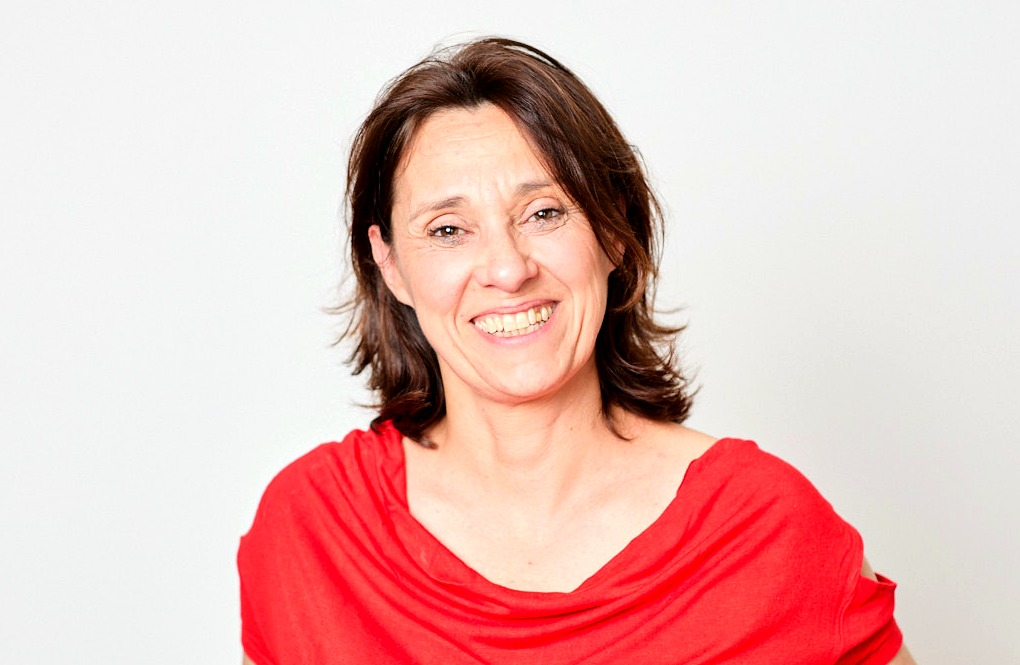
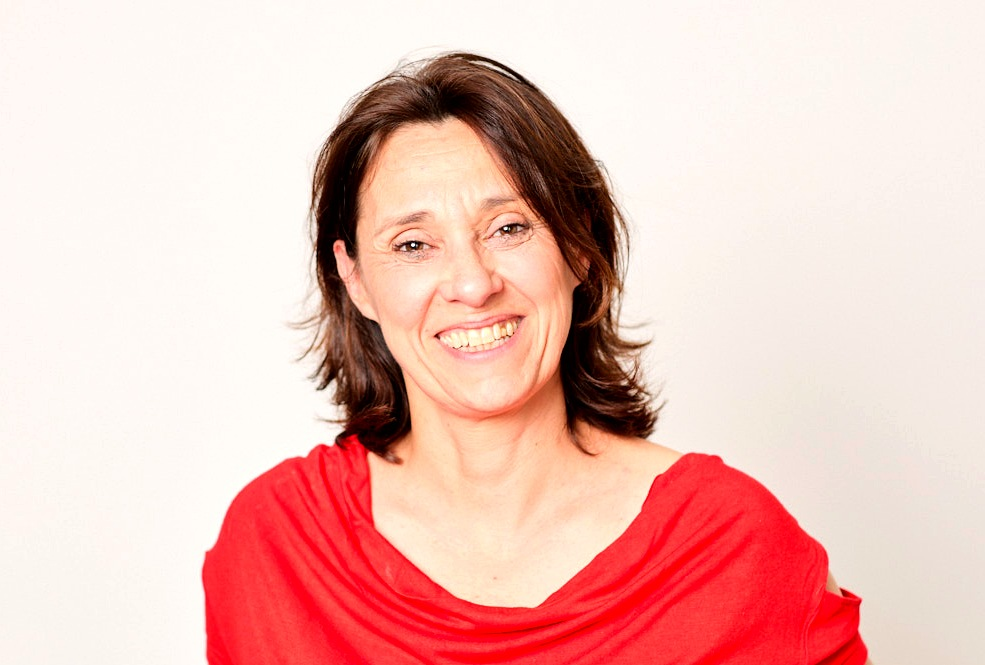
Restaure la légende du portrait dans le hero et retravaille la photo
- Réintègre une légende texte sobre sous la photo du hero
  (« Isabelle Houdaille — Fondatrice de cadreIActif »), supprimée par
  erreur lors du nettoyage précédent — sans réintroduire la forme
  décorative retirée à la demande d'Isabelle.
- Recadre et retravaille les couleurs du portrait (cadrage plus serré,
  légère tonalité chaude cohérente avec l'orange de la charte).

Changed region(s): [[0.1827, 0.0301, 0.9137, 1.0], [0.6396, 0.7218, 0.6701, 0.782], [0.5178, 0.7218, 0.5482, 0.782]]

diff --git a/nouvelle-charte/index.html b/nouvelle-charte/index.html
@@ -113,6 +113,8 @@ nav.site{position:sticky;top:0;z-index:100;display:flex;align-items:center;justi
 .hero-photo-wrap{position:relative;}
 .hero-photo-frame{position:relative;border-radius:20px;overflow:hidden;box-shadow:0 24px 60px rgba(30,30,30,.16);border:6px solid #fff;}
 .hero-photo-frame img{width:100%;display:block;object-fit:cover;}
+.hero-photo-caption{margin-top:16px;font-size:.9rem;color:var(--muted);text-align:center;}
+.hero-photo-caption strong{color:var(--graphite);font-weight:700;}
 @media(max-width:900px){.hero-split{grid-template-columns:1fr;text-align:center;}.hero-inner{text-align:center;}.hero-pills,.hero-ctas{justify-content:center;}.hero-photo-wrap{max-width:360px;margin:32px auto 0;}}
 
 /* 6 ATELIERS (offres) */
@@ -343,6 +345,7 @@ footer.site{background:#FBF1EC;color:var(--cendre);padding:52px 48px 30px;font-s
       <div class="hero-photo-frame">
         <img src="/nouvelle-charte/assets/isabelle-portrait.jpg" alt="Isabelle Houdaille, fondatrice de cadreIActif">
       </div>
+      <p class="hero-photo-caption"><strong>Isabelle Houdaille</strong> — Fondatrice de cadreIActif</p>
     </div>
   </div>
 </section>

diff --git a/nouvelle-charte/a-propos/index.html b/nouvelle-charte/a-propos/index.html
@@ -113,6 +113,8 @@ nav.site{position:sticky;top:0;z-index:100;display:flex;align-items:center;justi
 .hero-photo-wrap{position:relative;}
 .hero-photo-frame{position:relative;border-radius:20px;overflow:hidden;box-shadow:0 24px 60px rgba(30,30,30,.16);border:6px solid #fff;}
 .hero-photo-frame img{width:100%;display:block;object-fit:cover;}
+.hero-photo-caption{margin-top:16px;font-size:.9rem;color:var(--muted);text-align:center;}
+.hero-photo-caption strong{color:var(--graphite);font-weight:700;}
 @media(max-width:900px){.hero-split{grid-template-columns:1fr;text-align:center;}.hero-inner{text-align:center;}.hero-pills,.hero-ctas{justify-content:center;}.hero-photo-wrap{max-width:360px;margin:32px auto 0;}}
 
 /* 6 ATELIERS (offres) */

diff --git a/nouvelle-charte/blog/index.html b/nouvelle-charte/blog/index.html
@@ -113,6 +113,8 @@ nav.site{position:sticky;top:0;z-index:100;display:flex;align-items:center;justi
 .hero-photo-wrap{position:relative;}
 .hero-photo-frame{position:relative;border-radius:20px;overflow:hidden;box-shadow:0 24px 60px rgba(30,30,30,.16);border:6px solid #fff;}
 .hero-photo-frame img{width:100%;display:block;object-fit:cover;}
+.hero-photo-caption{margin-top:16px;font-size:.9rem;color:var(--muted);text-align:center;}
+.hero-photo-caption strong{color:var(--graphite);font-weight:700;}
 @media(max-width:900px){.hero-split{grid-template-columns:1fr;text-align:center;}.hero-inner{text-align:center;}.hero-pills,.hero-ctas{justify-content:center;}.hero-photo-wrap{max-width:360px;margin:32px auto 0;}}
 
 /* 6 ATELIERS (offres) */

diff --git a/nouvelle-charte/contact/index.html b/nouvelle-charte/contact/index.html
@@ -113,6 +113,8 @@ nav.site{position:sticky;top:0;z-index:100;display:flex;align-items:center;justi
 .hero-photo-wrap{position:relative;}
 .hero-photo-frame{position:relative;border-radius:20px;overflow:hidden;box-shadow:0 24px 60px rgba(30,30,30,.16);border:6px solid #fff;}
 .hero-photo-frame img{width:100%;display:block;object-fit:cover;}
+.hero-photo-caption{margin-top:16px;font-size:.9rem;color:var(--muted);text-align:center;}
+.hero-photo-caption strong{color:var(--graphite);font-weight:700;}
 @media(max-width:900px){.hero-split{grid-template-columns:1fr;text-align:center;}.hero-inner{text-align:center;}.hero-pills,.hero-ctas{justify-content:center;}.hero-photo-wrap{max-width:360px;margin:32px auto 0;}}
 
 /* 6 ATELIERS (offres) */

diff --git a/nouvelle-charte/formats/conferences-ateliers.html b/nouvelle-charte/formats/conferences-ateliers.html
@@ -113,6 +113,8 @@ nav.site{position:sticky;top:0;z-index:100;display:flex;align-items:center;justi
 .hero-photo-wrap{position:relative;}
 .hero-photo-frame{position:relative;border-radius:20px;overflow:hidden;box-shadow:0 24px 60px rgba(30,30,30,.16);border:6px solid #fff;}
 .hero-photo-frame img{width:100%;display:block;object-fit:cover;}
+.hero-photo-caption{margin-top:16px;font-size:.9rem;color:var(--muted);text-align:center;}
+.hero-photo-caption strong{color:var(--graphite);font-weight:700;}
 @media(max-width:900px){.hero-split{grid-template-columns:1fr;text-align:center;}.hero-inner{text-align:center;}.hero-pills,.hero-ctas{justify-content:center;}.hero-photo-wrap{max-width:360px;margin:32px auto 0;}}
 
 /* 6 ATELIERS (offres) */

diff --git a/nouvelle-charte/formats/conseil-strategique.html b/nouvelle-charte/formats/conseil-strategique.html
@@ -113,6 +113,8 @@ nav.site{position:sticky;top:0;z-index:100;display:flex;align-items:center;justi
 .hero-photo-wrap{position:relative;}
 .hero-photo-frame{position:relative;border-radius:20px;overflow:hidden;box-shadow:0 24px 60px rgba(30,30,30,.16);border:6px solid #fff;}
 .hero-photo-frame img{width:100%;display:block;object-fit:cover;}
+.hero-photo-caption{margin-top:16px;font-size:.9rem;color:var(--muted);text-align:center;}
+.hero-photo-caption strong{color:var(--graphite);font-weight:700;}
 @media(max-width:900px){.hero-split{grid-template-columns:1fr;text-align:center;}.hero-inner{text-align:center;}.hero-pills,.hero-ctas{justify-content:center;}.hero-photo-wrap{max-width:360px;margin:32px auto 0;}}
 
 /* 6 ATELIERS (offres) */

diff --git a/nouvelle-charte/formats/formations-action.html b/nouvelle-charte/formats/formations-action.html
@@ -113,6 +113,8 @@ nav.site{position:sticky;top:0;z-index:100;display:flex;align-items:center;justi
 .hero-photo-wrap{position:relative;}
 .hero-photo-frame{position:relative;border-radius:20px;overflow:hidden;box-shadow:0 24px 60px rgba(30,30,30,.16);border:6px solid #fff;}
 .hero-photo-frame img{width:100%;display:block;object-fit:cover;}
+.hero-photo-caption{margin-top:16px;font-size:.9rem;color:var(--muted);text-align:center;}
+.hero-photo-caption strong{color:var(--graphite);font-weight:700;}
 @media(max-width:900px){.hero-split{grid-template-columns:1fr;text-align:center;}.hero-inner{text-align:center;}.hero-pills,.hero-ctas{justify-content:center;}.hero-photo-wrap{max-width:360px;margin:32px auto 0;}}
 
 /* 6 ATELIERS (offres) */

diff --git a/nouvelle-charte/formats/index.html b/nouvelle-charte/formats/index.html
@@ -113,6 +113,8 @@ nav.site{position:sticky;top:0;z-index:100;display:flex;align-items:center;justi
 .hero-photo-wrap{position:relative;}
 .hero-photo-frame{position:relative;border-radius:20px;overflow:hidden;box-shadow:0 24px 60px rgba(30,30,30,.16);border:6px solid #fff;}
 .hero-photo-frame img{width:100%;display:block;object-fit:cover;}
+.hero-photo-caption{margin-top:16px;font-size:.9rem;color:var(--muted);text-align:center;}
+.hero-photo-caption strong{color:var(--graphite);font-weight:700;}
 @media(max-width:900px){.hero-split{grid-template-columns:1fr;text-align:center;}.hero-inner{text-align:center;}.hero-pills,.hero-ctas{justify-content:center;}.hero-photo-wrap{max-width:360px;margin:32px auto 0;}}
 
 /* 6 ATELIERS (offres) */

diff --git a/nouvelle-charte/pour-vous/cadre-augmente.html b/nouvelle-charte/pour-vous/cadre-augmente.html
@@ -113,6 +113,8 @@ nav.site{position:sticky;top:0;z-index:100;display:flex;align-items:center;justi
 .hero-photo-wrap{position:relative;}
 .hero-photo-frame{position:relative;border-radius:20px;overflow:hidden;box-shadow:0 24px 60px rgba(30,30,30,.16);border:6px solid #fff;}
 .hero-photo-frame img{width:100%;display:block;object-fit:cover;}
+.hero-photo-caption{margin-top:16px;font-size:.9rem;color:var(--muted);text-align:center;}
+.hero-photo-caption strong{color:var(--graphite);font-weight:700;}
 @media(max-width:900px){.hero-split{grid-template-columns:1fr;text-align:center;}.hero-inner{text-align:center;}.hero-pills,.hero-ctas{justify-content:center;}.hero-photo-wrap{max-width:360px;margin:32px auto 0;}}
 
 /* 6 ATELIERS (offres) */

diff --git a/nouvelle-charte/pour-vous/cockpit-ia.html b/nouvelle-charte/pour-vous/cockpit-ia.html
@@ -113,6 +113,8 @@ nav.site{position:sticky;top:0;z-index:100;display:flex;align-items:center;justi
 .hero-photo-wrap{position:relative;}
 .hero-photo-frame{position:relative;border-radius:20px;overflow:hidden;box-shadow:0 24px 60px rgba(30,30,30,.16);border:6px solid #fff;}
 .hero-photo-frame img{width:100%;display:block;object-fit:cover;}
+.hero-photo-caption{margin-top:16px;font-size:.9rem;color:var(--muted);text-align:center;}
+.hero-photo-caption strong{color:var(--graphite);font-weight:700;}
 @media(max-width:900px){.hero-split{grid-template-columns:1fr;text-align:center;}.hero-inner{text-align:center;}.hero-pills,.hero-ctas{justify-content:center;}.hero-photo-wrap{max-width:360px;margin:32px auto 0;}}
 
 /* 6 ATELIERS (offres) */

diff --git a/nouvelle-charte/pour-vous/index.html b/nouvelle-charte/pour-vous/index.html
@@ -113,6 +113,8 @@ nav.site{position:sticky;top:0;z-index:100;display:flex;align-items:center;justi
 .hero-photo-wrap{position:relative;}
 .hero-photo-frame{position:relative;border-radius:20px;overflow:hidden;box-shadow:0 24px 60px rgba(30,30,30,.16);border:6px solid #fff;}
 .hero-photo-frame img{width:100%;display:block;object-fit:cover;}
+.hero-photo-caption{margin-top:16px;font-size:.9rem;color:var(--muted);text-align:center;}
+.hero-photo-caption strong{color:var(--graphite);font-weight:700;}
 @media(max-width:900px){.hero-split{grid-template-columns:1fr;text-align:center;}.hero-inner{text-align:center;}.hero-pills,.hero-ctas{justify-content:center;}.hero-photo-wrap{max-width:360px;margin:32px auto 0;}}
 
 /* 6 ATELIERS (offres) */

diff --git a/nouvelle-charte/solutions-entreprises/associations-reseaux/index.html b/nouvelle-charte/solutions-entreprises/associations-reseaux/index.html
@@ -113,6 +113,8 @@ nav.site{position:sticky;top:0;z-index:100;display:flex;align-items:center;justi
 .hero-photo-wrap{position:relative;}
 .hero-photo-frame{position:relative;border-radius:20px;overflow:hidden;box-shadow:0 24px 60px rgba(30,30,30,.16);border:6px solid #fff;}
 .hero-photo-frame img{width:100%;display:block;object-fit:cover;}
+.hero-photo-caption{margin-top:16px;font-size:.9rem;color:var(--muted);text-align:center;}
+.hero-photo-caption strong{color:var(--graphite);font-weight:700;}
 @media(max-width:900px){.hero-split{grid-template-columns:1fr;text-align:center;}.hero-inner{text-align:center;}.hero-pills,.hero-ctas{justify-content:center;}.hero-photo-wrap{max-width:360px;margin:32px auto 0;}}
 
 /* 6 ATELIERS (offres) */